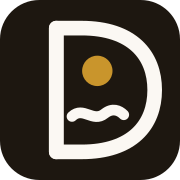
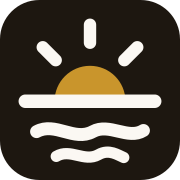
Replace monogram with sunrise-over-Ganga mark
The D monogram read as a half-face (dot eye, wave mouth) once seen.
New mark is an open composition with no enclosure: gold rising sun on
the horizon line, river waves below. Reads at 16px, no pareidolia.
Applied to Logo component, icon.svg favicon, apple-icon, OG image.

Changed region(s): [[0.0833, 0.0833, 0.9167, 0.9167]]

diff --git a/components/layout/Logo.tsx b/components/layout/Logo.tsx
@@ -8,10 +8,11 @@ type Props = {
 };
 
 /**
- * The Divyam mark — "dawn on the Ganga inside the D":
- * a bold D monogram holding a brass rising sun and the river's wave.
- * Strokes use currentColor so the mark adapts to light/dark surfaces;
- * the sun stays brass everywhere.
+ * The Divyam mark — sunrise over the Ganga:
+ * a gold sun lifting off the horizon with the river's waves below.
+ * Open composition (no enclosing shape) so it never reads as a face
+ * or a letter. Strokes use currentColor for light/dark surfaces;
+ * the sun stays gold everywhere.
  */
 function Mark({ size = 26, className }: { size?: number; className?: string }) {
   return (
@@ -24,20 +25,23 @@ function Mark({ size = 26, className }: { size?: number; className?: string }) {
       aria-hidden
       className={cn("shrink-0", className)}
     >
+      <path d="M16 4.4 V7.6" stroke="currentColor" strokeWidth="2.2" strokeLinecap="round" />
+      <path d="M7.6 8.4 L9.9 10.7" stroke="currentColor" strokeWidth="2.2" strokeLinecap="round" />
+      <path d="M24.4 8.4 L22.1 10.7" stroke="currentColor" strokeWidth="2.2" strokeLinecap="round" />
+      <path d="M9.7 18 A 6.3 6.3 0 0 1 22.3 18 Z" fill="var(--color-marigold)" />
+      <path d="M4.5 18 H27.5" stroke="currentColor" strokeWidth="2.4" strokeLinecap="round" />
       <path
-        d="M10 5 H14.5 C23.5 5 27.5 9.8 27.5 16 C27.5 22.2 23.5 27 14.5 27 H10 Z"
+        d="M6.5 23.4 C 9.8 21.6 13.2 25.2 16.5 23.4 C 19.4 21.8 22.8 24.9 25.5 23.2"
         stroke="currentColor"
-        strokeWidth="2.6"
-        strokeLinejoin="round"
-      />
-      <path d="M10 5 V27" stroke="currentColor" strokeWidth="2.6" strokeLinecap="round" />
-      <path
-        d="M12.8 20.7 C14.8 18.8 16.5 21.9 18.6 20.2 C20 19.1 21.2 19.6 22 20.4"
-        stroke="currentColor"
-        strokeWidth="1.9"
+        strokeWidth="2.3"
         strokeLinecap="round"
       />
-      <circle cx="17.3" cy="12.6" r="2.7" fill="var(--color-brass)" />
+      <path
+        d="M10 27.8 C 12.5 26.3 15 28.9 17.5 27.5 C 19.4 26.4 21 27.6 22 28"
+        stroke="currentColor"
+        strokeWidth="2"
+        strokeLinecap="round"
+      />
     </svg>
   );
 }

diff --git a/app/opengraph-image.tsx b/app/opengraph-image.tsx
@@ -32,20 +32,23 @@ export default async function Image() {
           fill="none"
           style={{ marginBottom: 28 }}
         >
+          <path d="M16 4.4 V7.6" stroke="#221c15" strokeWidth="2.2" strokeLinecap="round" />
+          <path d="M7.6 8.4 L9.9 10.7" stroke="#221c15" strokeWidth="2.2" strokeLinecap="round" />
+          <path d="M24.4 8.4 L22.1 10.7" stroke="#221c15" strokeWidth="2.2" strokeLinecap="round" />
+          <path d="M9.7 18 A 6.3 6.3 0 0 1 22.3 18 Z" fill="#c9952c" />
+          <path d="M4.5 18 H27.5" stroke="#221c15" strokeWidth="2.4" strokeLinecap="round" />
           <path
-            d="M10 5 H14.5 C23.5 5 27.5 9.8 27.5 16 C27.5 22.2 23.5 27 14.5 27 H10 Z"
+            d="M6.5 23.4 C 9.8 21.6 13.2 25.2 16.5 23.4 C 19.4 21.8 22.8 24.9 25.5 23.2"
             stroke="#221c15"
-            strokeWidth="2.6"
-            strokeLinejoin="round"
-          />
-          <path d="M10 5 V27" stroke="#221c15" strokeWidth="2.6" strokeLinecap="round" />
-          <path
-            d="M12.8 20.7 C14.8 18.8 16.5 21.9 18.6 20.2 C20 19.1 21.2 19.6 22 20.4"
-            stroke="#221c15"
-            strokeWidth="1.9"
+            strokeWidth="2.3"
             strokeLinecap="round"
           />
-          <circle cx="17.3" cy="12.6" r="2.7" fill="#c9952c" />
+          <path
+            d="M10 27.8 C 12.5 26.3 15 28.9 17.5 27.5 C 19.4 26.4 21 27.6 22 28"
+            stroke="#221c15"
+            strokeWidth="2"
+            strokeLinecap="round"
+          />
         </svg>
         <div
           style={{